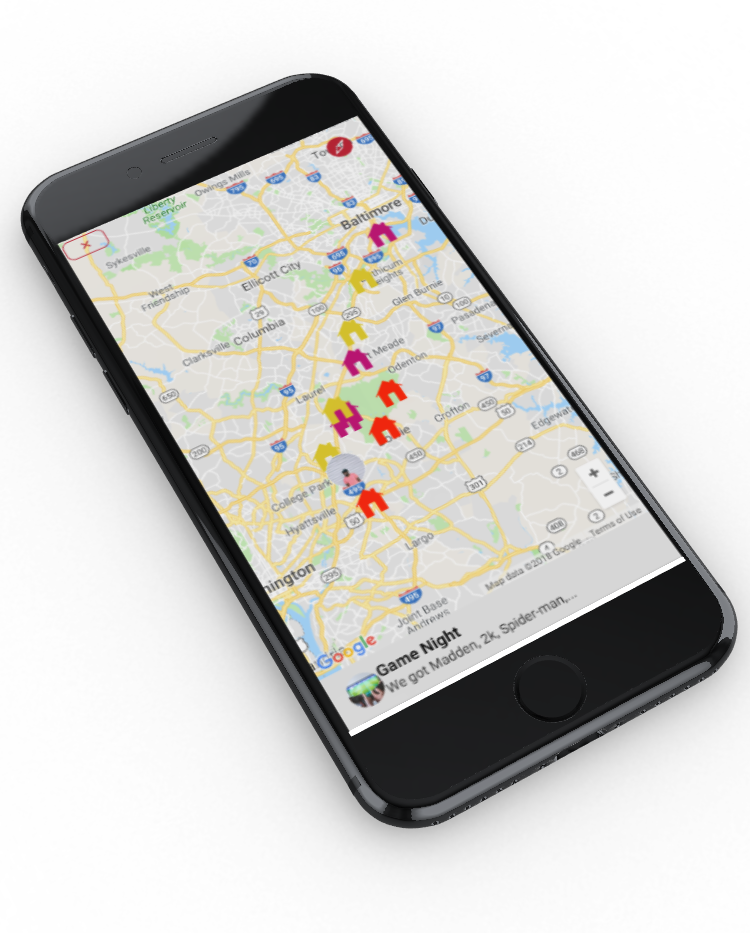
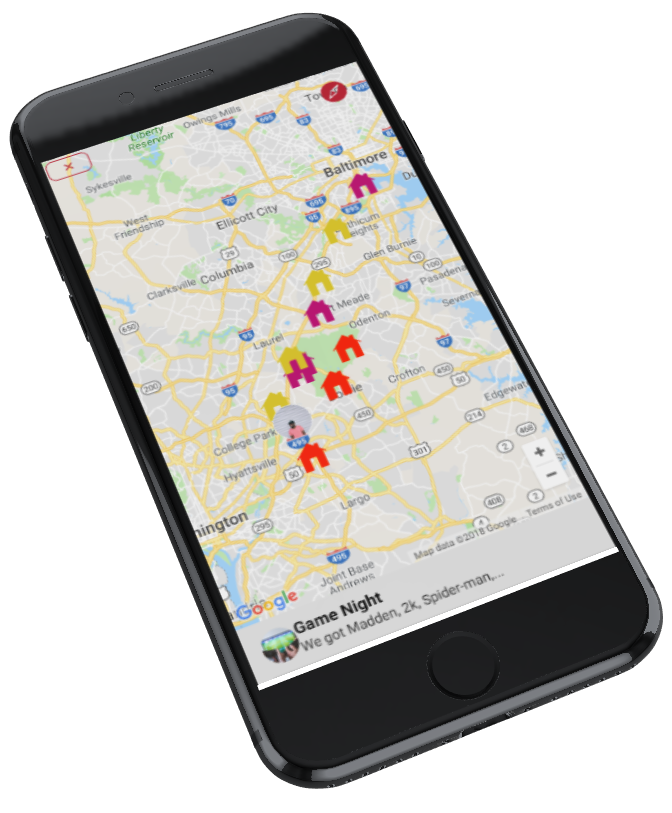
layout good, moving on to animations

diff --git a/src/app/public/home/components/header/header.component.scss b/src/app/public/home/components/header/header.component.scss
@@ -1,21 +1,52 @@
+
+
+  
 .container {
     display: grid;
-    grid-template-rows: 25% 50% 25%;
+    grid-template-rows: 50% 50%;
+    grid-template-columns: 50% 50%;
     height: 100%;
 }
 
-.item1, .item3 {
+.item1 {
     display: grid;
-    grid-template-rows: 5% auto 5%;
-    grid-template-columns: 10% auto 10;
+    grid-column-start: 1;
+    grid-column-end: 2;
 
-    img {
-        grid-column-start: 2;
-        grid-column-end: 3;
-        grid-row-start: 2;
-        grid-row-end: 3
-    }
+    grid-row-start: 1;
+    grid-row-end: 2;
+
+    align-items: center;
+    justify-items: center;
 }
+
+.item2{
+
+    grid-row-start: 2;
+    grid-row-end: 3;
+
+    grid-column-start: 1;
+    grid-column-end: 3;
+}
+
+.item3 {
+
+    display: grid;
+    grid-column-start: 2;
+    grid-column-end: 3;
+
+    grid-row-start: 1;
+    grid-row-end: 2;
+
+    align-items: center;
+    justify-items: center;
+}
+
+.phone_demo {
+    max-height: 300px;
+}
+
+
 
 ion-card {
     margin: 0;
@@ -23,16 +54,6 @@ ion-card {
     height: 100%;   
 }
 
-// .main-card-content {
-//     height: 100%;
-//     width: 100%;
-
-//     display: grid;
-//     grid-template-columns: 20% auto 20%;
-//     grid-template-rows: 10% 20% auto 10% 20%;
-
-//     align-items: center;
-// }
 
 .main-card-content {
     display: grid;
@@ -91,11 +112,15 @@ ion-card {
 
 @media(min-width: 200px) {
 
- .action {
-     align-self: end;
-     grid-row-start: 5;
-     grid-row-end: 6;
- }
+    .action {
+        align-self: start;
+        grid-row-start: 5;
+        grid-row-end: 6;
+    }
+
+    .phone_demo {
+        max-height: 280px;
+    }
    
 }
 
@@ -113,10 +138,9 @@ ion-card {
         grid-row-end: 5
      }
 
-   .brandon, .stacy {
-       width: 100%;
+     .phone_demo {
         max-height: 300px;
-   }
+    }
    
 }
 
@@ -132,74 +156,38 @@ ion-card {
         grid-column-start: 2;
         grid-column-end: 3;
      }
+
+     .phone_demo {
+        max-height: 400px;
+    }
 }
+
+
+
+
+
 
 @media(min-width: 768px) {
-    .brandon, .stacy {
-        width: 100%;
-        max-height: 500px;
-    } 
 
-    .main-card-content {
-        display: grid;
-        height: 100%;
-        grid-template-columns: 0.8fr 2.1fr 1fr;
-        grid-template-rows: 1.5fr 0.6fr 1.6fr 0.5fr 1.5fr;
-        grid-gap: 1px 1px;
-        grid-template-areas: ". . ." ". . ." ". . ." ". . ." ". . .";
-    }
 
-    .title, .action, .card-cnt {
-        grid-column-start: 2;
-        grid-column-end: 3
-    }   
- 
+.main-card-content {
+    display: grid;
+    height: 100%;
+    grid-template-columns: 0.6fr 1.8fr 0.6fr;
+    grid-template-rows: 1fr 75px auto 75px 1fr;
+    grid-gap: 10px 1px;
+    grid-template-areas: ". . ." ". . ." ". . ." ". . ." ". . .";
+}
 
-    .title {
-        grid-row-start: 2;
-        grid-row-end: 3;
-    }
+.phone_demo {
+    max-height: 500px;
+}
 
-    .action {
-        grid-row-start: 4;
-        grid-row-end: 5;
-    }
-
-    .card-cnt {
-        grid-row-start: 3;
-        grid-row-end: 4;
-     }
 
 }
 
-// defines the point at witch the layout changes
-@media(max-width: 768px) {
-    
-    .container {
-        display: grid;
-        grid-template-rows: 50% 50%;
-        grid-template-columns: 50% 50%;
-    }
 
-    .item1 {
-        grid-column-start: 1;
-        grid-column-end: 2
-    }
 
-    .item3 {
-        grid-column-start: 2;
-        grid-column-end: 3;
-        grid-row-start: 1;
-        grid-row-end: 2;
-    }
-
-    .item2{
-        grid-row-start: 2;
-        grid-row-end: 3;
-        grid-column-start: 1;
-        grid-column-end: 3;
-    }
-}
 
 
 @media(min-width: 992px) {
@@ -210,19 +198,38 @@ ion-card {
         grid-template-columns: 1fr 2fr 1fr;
     }
 
-    .main-card-content {
-        display: grid;
-        height: 100%;
-        grid-template-columns: 0.6fr 1.8fr 0.6fr;
-        grid-template-rows: 1fr 75px auto 75px 1fr;
-        grid-gap: 10px 1px;
-        grid-template-areas: ". . ." ". . ." ". . ." ". . ." ". . .";
+
+    .item1 {
+       
+        grid-column-start: 1;
+        grid-column-end: 2;
+    
+        grid-row-start: 1;
+        grid-row-end: 2;
+    
+    }
+    
+    .item2{
+    
+        grid-row-start: 1;
+        grid-row-end: 2;
+    
+        grid-column-start: 2;
+        grid-column-end: 3;
+    }
+    
+    .item3 {
+    
+        grid-column-start: 3;
+        grid-column-end: 4;
+    
+        grid-row-start: 1;
+        grid-row-end: 2;
+    
     }
 
-    .brandon, .stacy {
-        width: 100%;
-        max-height: 600px;
-    } 
+
+ 
 
     .title {
         align-self: end;
@@ -237,22 +244,23 @@ ion-card {
      }
 
 
+
+     .phone_demo {
+        max-height: 700px;
+    }
+
+
 }
+
 
 
 @media(min-width: 1000px) {
-    // .main-card-content {
-    //     display: grid;
-    //     height: 100%;
-    //     grid-template-columns: 0.8fr 2.1fr 1fr;
-    //     grid-template-rows: 1.4fr 0.9fr 1.4fr;
-    //     grid-gap: 1px 1px;
-    //     grid-template-areas: ". . ." ". . ." ". . .";
-    // }
+   
+    .phone_demo {
+        max-height: 900px;
+    }
 
 }
-
-
 
 
 

diff --git a/src/app/public/home/home.page.html b/src/app/public/home/home.page.html
@@ -1,46 +1,7 @@
 <ion-header>
   <ion-toolbar color="primary">
-
-    <ion-grid>
-      <ion-row>
-        <ion-col *ngIf="(minWidth$ | async) ">
-          <ion-menu-button color="dark"></ion-menu-button>
-        </ion-col>
-        <ion-col>
-          <ion-buttons>
-            <ion-button (click)="navigate('header')">
-              Nova
-            </ion-button>
-          </ion-buttons>
-        </ion-col>
-        <ion-col>
-
-          <ion-buttons justify-content-evenly *ngIf="!(minWidth$ | async) ">
-
-            <ion-button (click)="navigate('why')">
-              Problem
-            </ion-button>
-
-            <ion-button (click)="navigate('how')">
-              Solution
-            </ion-button>
-
-            <ion-button (click)="navigate('team')">
-              Team
-            </ion-button>
-
-            <ion-button (click)="navigate('contact')">
-              Contact
-            </ion-button>
-
-          </ion-buttons>
-
-        </ion-col>
-        <ion-col></ion-col>
-      </ion-row>
-    </ion-grid>
-
-    <ion-menu-toggle slot="end"></ion-menu-toggle>
+    <ion-title slot="start">Skifel</ion-title>
+    
   </ion-toolbar>
 </ion-header>
 

diff --git a/src/app/public/home/components/header/header.component.html b/src/app/public/home/components/header/header.component.html
@@ -5,7 +5,7 @@
 
 
   <div class="item item1 ">
-      <img class="stacy"  src="../../../../../assets/imgs/stacy_pro.png" alt="">
+      <img class="phone_demo"  src="../../../../../assets/imgs/stacy_pro.png" alt="">
   </div>
 
 
@@ -30,7 +30,7 @@
 
 
   <div class="item item3 ">
-      <img class="brandon" src="../../../../../assets/imgs/barandon_pro.png" alt="">
+      <img class="phone_demo" src="../../../../../assets/imgs/barandon_pro.png" alt="">
   </div>
 
 </div>

diff --git a/src/app/public/home/components/demo/demo.component.scss b/src/app/public/home/components/demo/demo.component.scss
@@ -1,7 +1,4 @@
-
-
-
-  .grid-container {
+.grid-container {
     display: grid;
     height: 100%;
     grid-template-columns: 1fr 1fr;

diff --git a/src/app/public/home/home.page.scss b/src/app/public/home/home.page.scss
@@ -15,6 +15,6 @@
 }
 
 .landing {
-    // border: 1px solid red;
+    margin-bottom: 5%;
     height: 95vh;
 }
